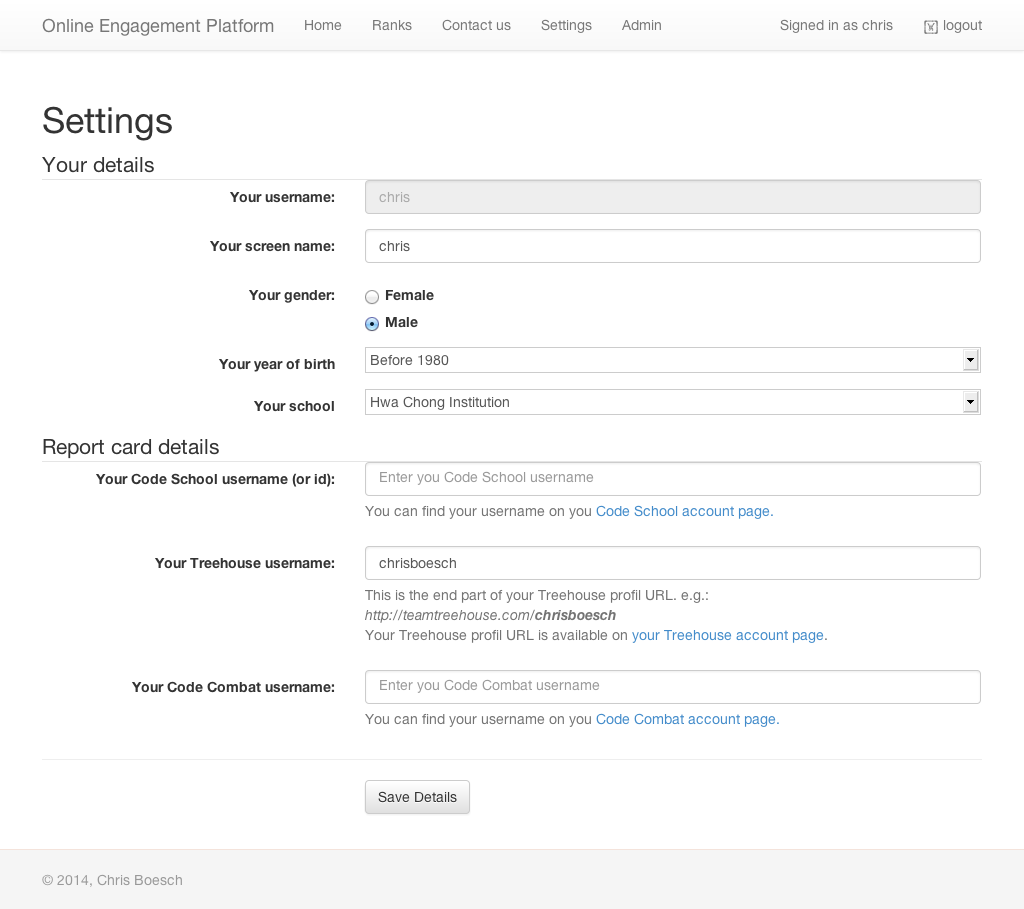
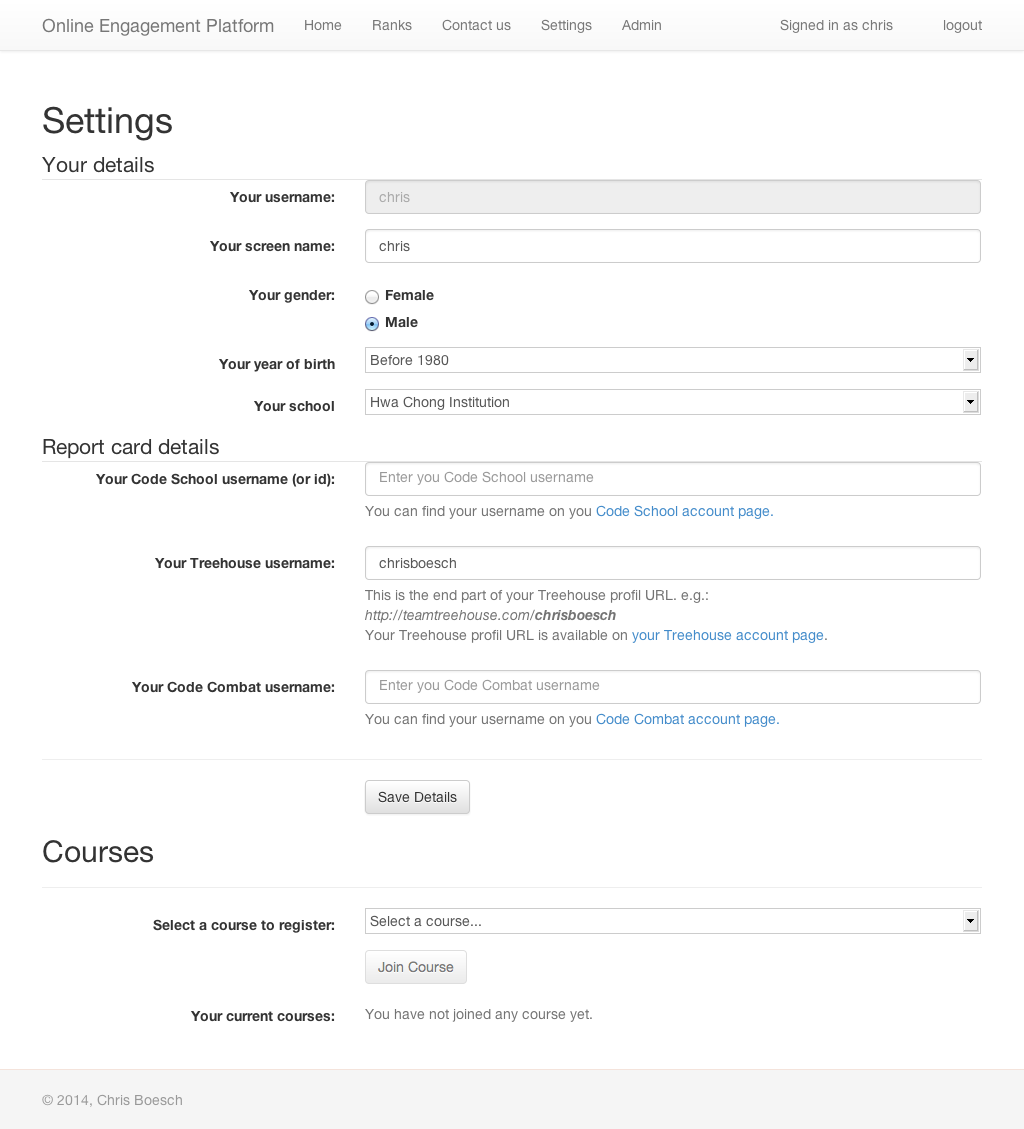
Fix e2e test

diff --git a/app/userdetails/userdetails.e2e.specs.js b/app/userdetails/userdetails.e2e.specs.js
@@ -149,6 +149,39 @@
               }
             });
 
+            function parseQuery(q) {
+              var params = {};
+
+              q.split('&').forEach(function(pair) {
+                var parts = pair.split('=');
+                params[parts[0]] = parts[1];
+              });
+
+              return params;
+            }
+
+            // Courses
+            $httpBackend.whenGET(fix.url.courses).respond(function(m, url) {
+              var query = fix.url.courses.exec(url)[1] || '',
+                params = parseQuery(query),
+                courses;
+
+              console.log('GET ' + url);
+
+              if (params.opened) {
+                courses = _(fix.courses).filter({opened: true});
+              } else {
+                courses = _(fix.courses);
+              }
+
+              var resp = {
+                courses: courses.omit('pw').map().value(),
+                cursor: null
+              };
+
+              return [200, resp];
+            });
+
             $httpBackend.whenGET(/.*/).passThrough();
           });
       },
